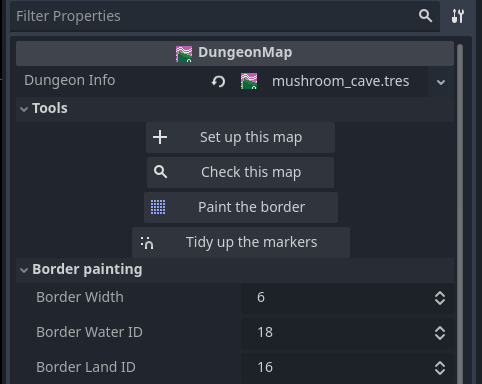
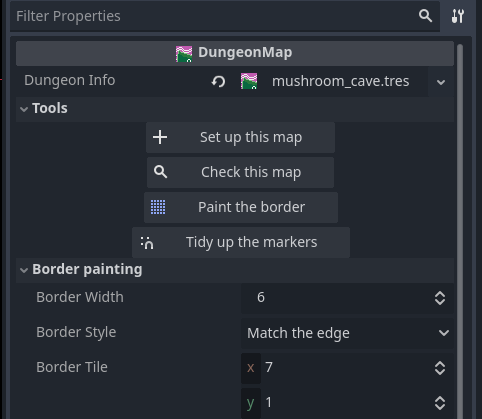
Document tile sheets and monsters bigger than a tile
AUTHORING gains the Aseprite export settings that matter, the four
buttons on the TileSheet tool, the solid map as a readable text file,
and why no tool names a tile by number any more. Plus a section on what
Sprite Scale actually controls - culling, the health bar, draw order and
the editor's warnings, not just how big it looks.

The cheat sheet gets the short version of both, and ROADMAP gains an
"Add tiles" recipe alongside the monster, item and character ones.

Two new screenshots, captured the same way as the rest.

Claude-Session: https://claude.ai/code/session_01AyhC7Sup9t86U28LkmRCHA

diff --git a/KatsuBoyGodot/AUTHORING.md b/KatsuBoyGodot/AUTHORING.md
@@ -38,7 +38,8 @@ to play.
 | whether a map is set up right | `scenes/maps/<Map>.tscn` → select the **root** → **Check this map** |
 | the terrain of a map | `scenes/maps/<Map>.tscn` → select **Tiles** |
 | what's on a map (items, monsters, NPCs, doors) | `scenes/maps/<Map>.tscn` → the group nodes |
-| which tiles block movement | `assets/tiles/katsuboy_tileset.tres` |
+| which tiles block movement | `assets/tiles/katsuboy_tileset.tres`, or `assets/tiles/katsuboy_atlas.solid.txt` |
+| adding tiles from a sheet you drew | `scenes/tools/TileSheet.tscn` → **Rebuild from sheet** |
 | monster stats, art, behaviour and drops | `assets/data/monsters/*.tres` |
 | adding a whole new monster | copy `assets/data/monsters/example_custom.tres` |
 | adding a whole new item | copy `assets/data/items/example_weapon.tres` |
@@ -131,21 +132,70 @@ once.
 That one flag is read by both the collision checker and the pathfinder, so
 monsters immediately stop trying to walk through anything you mark solid.
 
-### Adding a new tile
+### Adding tiles from a sheet
 
-All tiles live in one atlas image, because that's what the TileSet paints from.
+Draw a sheet in Aseprite, drop it in, press a button. No code, no list of file
+names, no rebuilding anything by hand.
 
-1. Put your 16×16 PNG in `assets/tiles/`.
-2. Add its filename to the **end** of `TILE_NAMES` in `tools/build_tileset.gd`.
-   **Never reorder that list** — a tile's position in it is its ID, and every
-   map already refers to those IDs.
-3. Run, from the project folder:
-   ```
-   godot --headless --path . --script res://tools/build_tileset.gd
-   godot --headless --path . --import
-   ```
-4. Open the TileSet, select the atlas source, and click the new square (or use
-   **Setup → auto-create tiles**) so Godot knows it exists. Set its `collision`.
+![The TileSheet tool in the Inspector, with its four buttons](docs/images/tile-sheet.png)
+
+1. **In Aseprite**, lay the tiles out in a grid at **48 × 48**, with **no
+   padding and no gaps**. Leave a cell completely empty to skip it. Export as
+   PNG at 1× — no scaling.
+2. Save it into `assets/tiles/` and let Godot import it. The project's texture
+   filter is already **Nearest**, so pixel art stays sharp; you do not have to
+   change any import setting.
+3. Open **`scenes/tools/TileSheet.tscn`**, point **Sheet** at your PNG, and
+   press **Rebuild from sheet**.
+4. Tick **collision** on the tiles that should be walls — select the tile in the
+   TileSet editor and tick it there, or see the solid map below.
+
+| Button | Does |
+|---|---|
+| **Rebuild from sheet** | a tile for every drawn cell; drops tiles whose cell went empty; **keeps the collision you already ticked**, matched up by position |
+| **Check the sheet** | reports what the sheet and the tile set disagree about, in the **Output** panel and as a warning triangle |
+| **Write solid map** | writes which tiles are walls to a text file beside the sheet |
+| **Read solid map** | applies edits to that file back onto the tile set |
+
+Godot has its own *Create tiles in non-transparent texture regions* button, and
+it works. The reason to use this one instead is the third column of that table:
+Godot's button rebuilds the tiles and you tick all the collision again.
+
+### Which tiles are walls, as text
+
+`assets/tiles/katsuboy_atlas.solid.txt` is a picture of the sheet in three
+characters — `#` solid, `.` walkable, a space where there is no tile:
+
+```
+...........
+.....######
+#########.#
+##.########
+```
+
+It is written by **Write solid map** and applied by **Read solid map**, so
+collision is something you can read in a diff and edit in any text editor
+rather than only by clicking. A test checks that the file and the tile set still
+agree, so neither can drift without something failing.
+
+Lines that are anything other than those three characters are notes. A row whose
+left-hand tile is solid starts with a `#`, which is why rows are recognised by
+what they contain rather than by their first character.
+
+### Tile numbers
+
+A tile's id is its position in the sheet: `id = row × columns + column`. Grass is
+0, the tree 16, the wall 17, water 18–30.
+
+**The number of columns is read off the sheet**, not written down anywhere. That
+matters: maps store atlas *coordinates*, so a wider sheet would renumber every
+tile at run time while the painted maps stayed put — the game would load, and
+the grass would be water.
+
+For the same reason, nothing in the authoring tools names a tile by number any
+more. `DungeonMap`'s **Paint the border** repeats whatever is already at the
+nearest edge, so water runs out to sea and forest stays forest, with no list of
+which numbers count as water.
 
 ---
 
@@ -549,7 +599,7 @@ numbers, applied to every monster of that type everywhere. For a marker set to
 | (top) | **Display Name** — what the damage numbers and the boss bar call it |
 | **Stats** | Max Life, Attack, Defense, Exp Reward, Speed, Knock Back Power |
 | **Hitbox** | **Solid Area** — the collision box inside the 48×48 tile, as `Rect2i(x, y, w, h)`. Smaller than the sprite is usually right; the player's is 24×24. |
-| **Looks** | **Frames Down / Up / Left / Right** — two PNGs each, the walk cycle. Leave Up, Left and Right empty and it faces every way with its Down pair, which is what the Slime does. **Sprite Scale** 1 draws it one tile across, 2 draws it two (a Kamijack is a 2). |
+| **Looks** | **Frames Down / Up / Left / Right** — two PNGs each, the walk cycle. Leave Up, Left and Right empty and it faces every way with its Down pair, which is what the Slime does. **Sprite Scale** is how many tiles across and down it is — see *Monsters bigger than one tile* below. |
 | **Behaviour** | **Behaviour**: `Wander` drifts and hurts on contact; `Chaser` takes the shortest path to you once you are close; `Fighter` chases and swings; `Shooter` chases, swings and throws. Plus **Notice Distance** and **Give Up Distance** in tiles, **Shot Interval** and **Projectile** for a Shooter, **Swing Interval** for a Fighter. |
 | **Drops** | a list of `MonsterDrop` rows — see below |
 | **Melee attack** | **Attack Area** (reach of a swing; leave at zero for something that only touches or shoots) and **Motion 1 / 2 Duration** (frames of wind-up, then frames until the swing ends) |
@@ -567,6 +617,31 @@ weights short.
 
 `example_custom.tres` is a worked example: a Chaser with one pair of frames, a
 55/15/15/15 drop table, and no script anywhere.
+
+### Monsters bigger than one tile
+
+![A MonsterMarker for a Kamijack, two tiles across](docs/images/big-monster.png)
+
+**Sprite Scale** on a `MonsterStats` is not just how big it looks. It is:
+
+- how far off-screen it can get before the game stops drawing it — too small and
+  a big monster blinks out while half of it is still visible;
+- how wide its health bar is;
+- **where it sorts in the draw order.** A tall monster's feet are a tile below
+  its origin, so it is sorted by its feet. Sorting on the top edge drew it
+  *behind* whatever it was standing in front of;
+- how much floor the editor insists it has under it.
+
+The tile you place it on is its **top-left**: a 2 covers that tile and the one
+below-right. Its **Solid Area** is measured inside the whole sprite, not inside
+one tile, so a 2's hitbox can be anywhere in that 96 × 96 square — the Kamijack's
+is `(20, 34, 56, 52)`.
+
+In the editor the marker outlines its whole footprint with the tile it actually
+sits on picked out, and the warnings walk every tile under it. A two-tile monster
+with its head in open floor and its body in a wall looks fine and cannot move.
+
+The same field exists on an `NpcProfile`, and means the same thing.
 
 ### `assets/data/items/*.tres`
 

diff --git a/KatsuBoyGodot/DUNGEON_CHEATSHEET.md b/KatsuBoyGodot/DUNGEON_CHEATSHEET.md
@@ -82,12 +82,32 @@ look at **Custom Data → collision** in the Inspector.
 **Paint the border** is decoration rather than a wall — the wall is already
 there.
 
-### Adding a new tile to the palette
+### Adding tiles from a sheet you drew
 
-1. Put the 48×48 art into `assets/tiles/`.
-2. Open `assets/tiles/katsuboy_tileset.tres`, select the atlas source, and
-   either extend the region or add a new source.
-3. Tick **collision** on it if it should block.
+![The TileSheet tool in the Inspector, with its four buttons](docs/images/tile-sheet.png)
+
+1. **In Aseprite**: a grid of 48 × 48 tiles, **no padding, no gaps**. An empty
+   cell is skipped. Export PNG at 1×.
+2. Save it into `assets/tiles/`.
+3. Open **`scenes/tools/TileSheet.tscn`**, point **Sheet** at it, press
+   **Rebuild from sheet**.
+4. Tick **collision** on the walls.
+
+**Rebuild from sheet** keeps the collision you already ticked, which is the one
+thing Godot's own *Create tiles in non-transparent regions* button does not do.
+
+**Write solid map** / **Read solid map** copy collision to and from
+`katsuboy_atlas.solid.txt`, a picture of the sheet in `#` and `.`:
+
+```
+...........
+.....######
+#########.#
+##.########
+```
+
+Readable in a diff, editable in any text editor, and checked against the tile
+set by the test suite.
 
 ---
 
@@ -148,6 +168,11 @@ Going over is not an error, it is silently ignored — which is why
 | **Reward Ticket** | `Boss` only — the route its death opens |
 
 ![A MonsterMarker with Monster set to From Stats](docs/images/monster-marker.png)
+
+**A monster bigger than one tile** — a Kamijack — is marked by its stat sheet's
+**Sprite Scale**. The marker outlines the whole footprint with the tile it sits
+on picked out, and every tile under it has to be floor. The tile you place it on
+is its top-left.
 
 Monsters respawn from their markers whenever the map resets: on death, on
 restart, and when the player rests at a healing pool. Leaving a map and coming
@@ -314,7 +339,7 @@ in order. Confirm moves to the next. Lines wrap for you; `\n` forces a break.
    |---|---|
    | **Stats** | Max Life, Attack, Defense, Exp Reward, Speed, Knock Back Power |
    | **Hitbox** | **Solid Area** — smaller than the sprite. The player's is 24×24 inside a 48×48 tile; matching that is a good default. |
-   | **Looks** | two PNGs into **Frames Down**; the other three directions fall back to Down if empty. **Sprite Scale** 2 for something two tiles across. |
+   | **Looks** | two PNGs into **Frames Down**; the other three directions fall back to Down if empty. **Sprite Scale** is how many tiles across it is — 2 for a Kamijack. It drives culling, the health bar, draw order and how much floor the editor wants under it, so make it match the art. |
    | **Behaviour** | `Wander` drifts and hurts on contact · `Chaser` paths to you · `Fighter` chases and swings · `Shooter` chases, swings and throws |
    | **Drops** | weighted rows — see below |
    | **Melee attack** | only for Fighter/Shooter: **Attack Area** is the reach, **Motion 1/2 Duration** the wind-up and the swing |

diff --git a/KatsuBoyGodot/ROADMAP.md b/KatsuBoyGodot/ROADMAP.md
@@ -407,7 +407,9 @@ Cheapest content in the game, and no longer code at all.
 2. Copy `assets/data/monsters/example_custom.tres` and open it in the Inspector.
    Set life, speed, attack, defence and exp reward; drag two PNGs into **Frames
    Down** (and the other three directions if you have them); pick a
-   **Behaviour**; write a **Drops** table.
+   **Behaviour**; write a **Drops** table. For something bigger than one tile,
+   set **Sprite Scale** — it drives the art, the culling, the health bar, the
+   draw order and how much floor the editor wants under it, all from one field.
 3. In a map scene, add a `MonsterMarker`, set **Monster** to `From Stats`, drag
    your resource into **Stats**, and put it where you want it.
 
@@ -472,6 +474,21 @@ pier with Dock Of = the dungeon's id, and add the resource to
 scene, so there are no indices to keep in step.
 
 `DUNGEON_CHEATSHEET.md` is the one-page version of all of this.
+
+### Add tiles
+
+No code either, since the sheet is the source.
+
+1. Draw a sheet in Aseprite: a grid of 48 × 48 tiles, no padding, no gaps.
+   Empty cells are skipped. Export PNG at 1×.
+2. Save it into `assets/tiles/`.
+3. Open `scenes/tools/TileSheet.tscn`, point **Sheet** at it, press
+   **Rebuild from sheet**. Collision already ticked is kept.
+4. Tick collision on the new walls — in the TileSet editor, or by editing
+   `katsuboy_atlas.solid.txt` and pressing **Read solid map**.
+
+The number of columns is read off the sheet, so it can be any width. Nothing in
+the authoring tools names a tile by number.
 
 ### Add an item
 
